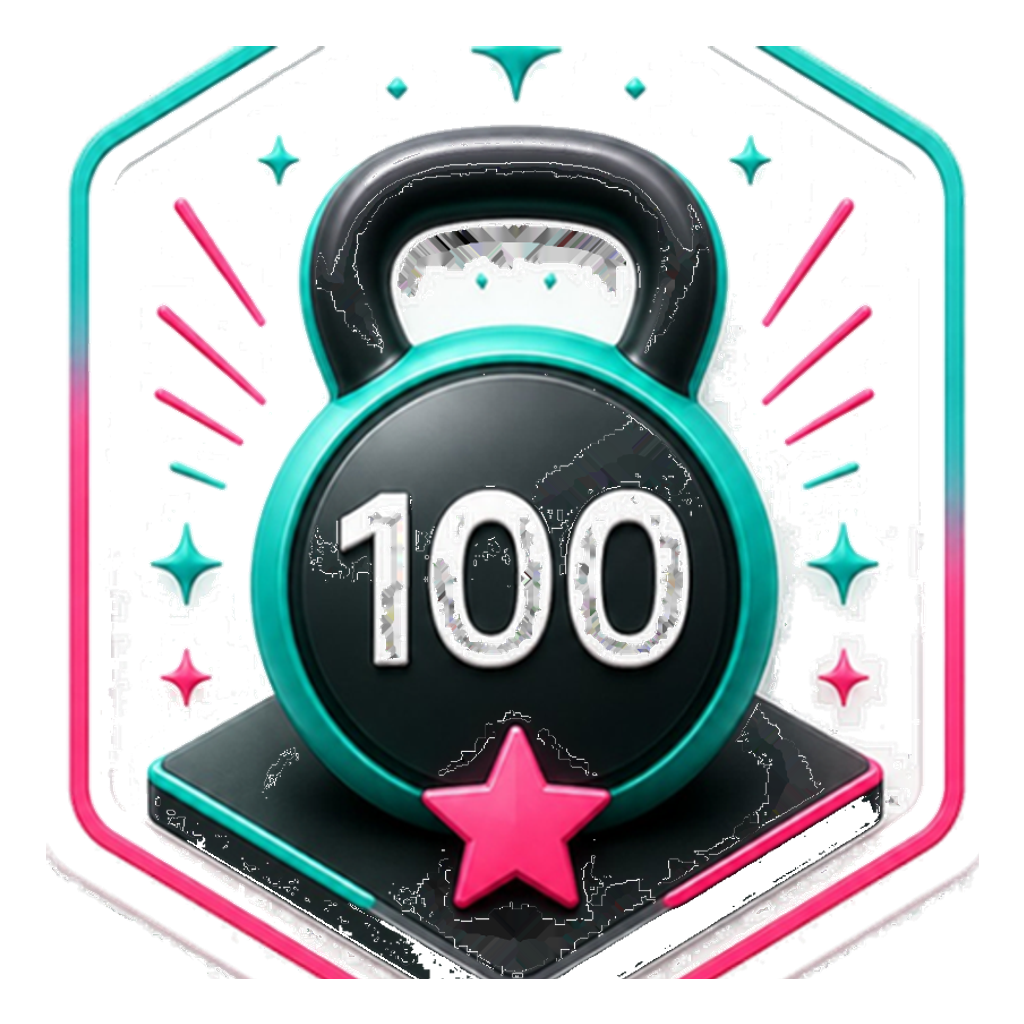
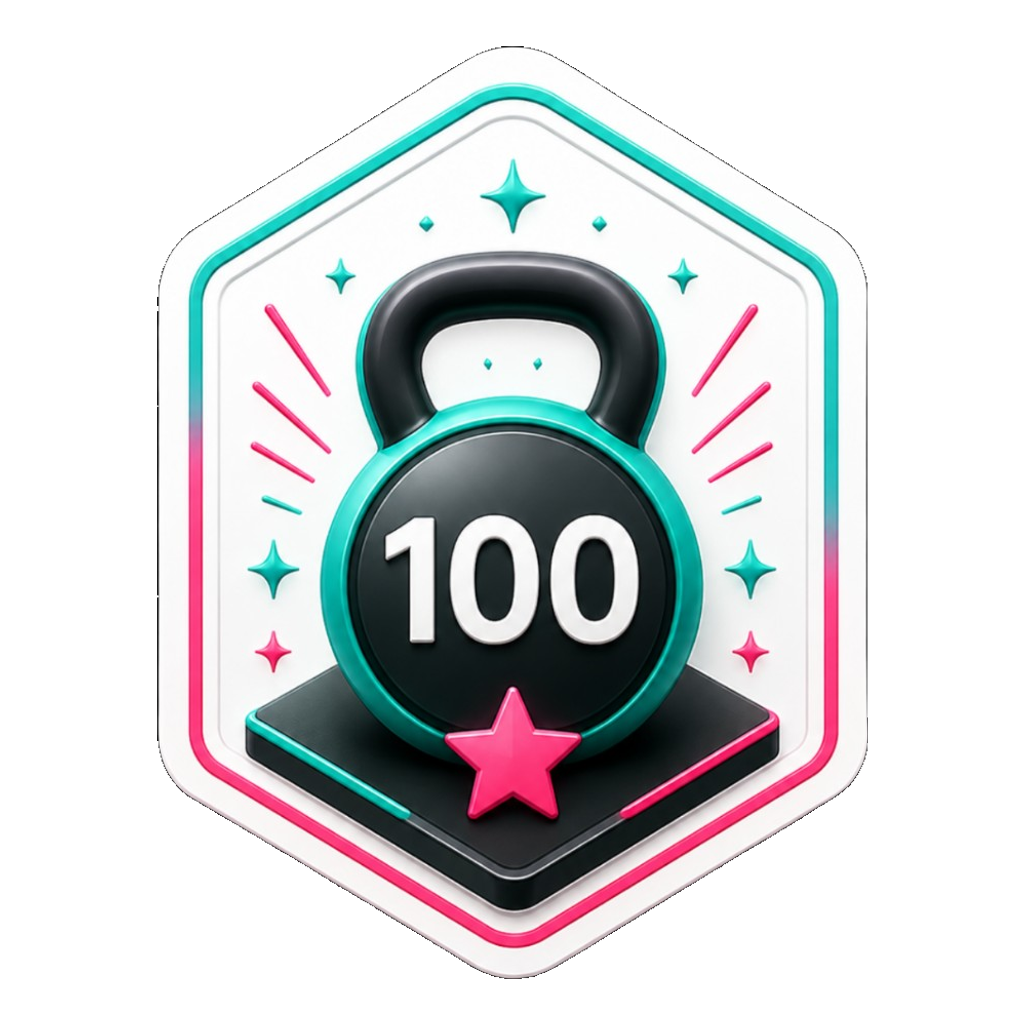
Update 100-klubben badge artwork
Replace 32-100-klubben.png with new kettlebell design and bump cache version.

diff --git a/src/app/badgeAssets.ts b/src/app/badgeAssets.ts
@@ -1,5 +1,5 @@
 /** Felles badge-bilder (PNG 1024×1024, normalisert visuell størrelse). */
-export const BADGE_ASSET_VERSION = "34";
+export const BADGE_ASSET_VERSION = "35";
 
 export function badgeAssetUrl(path: string): string {
   const base = path.split("?")[0] || path;
